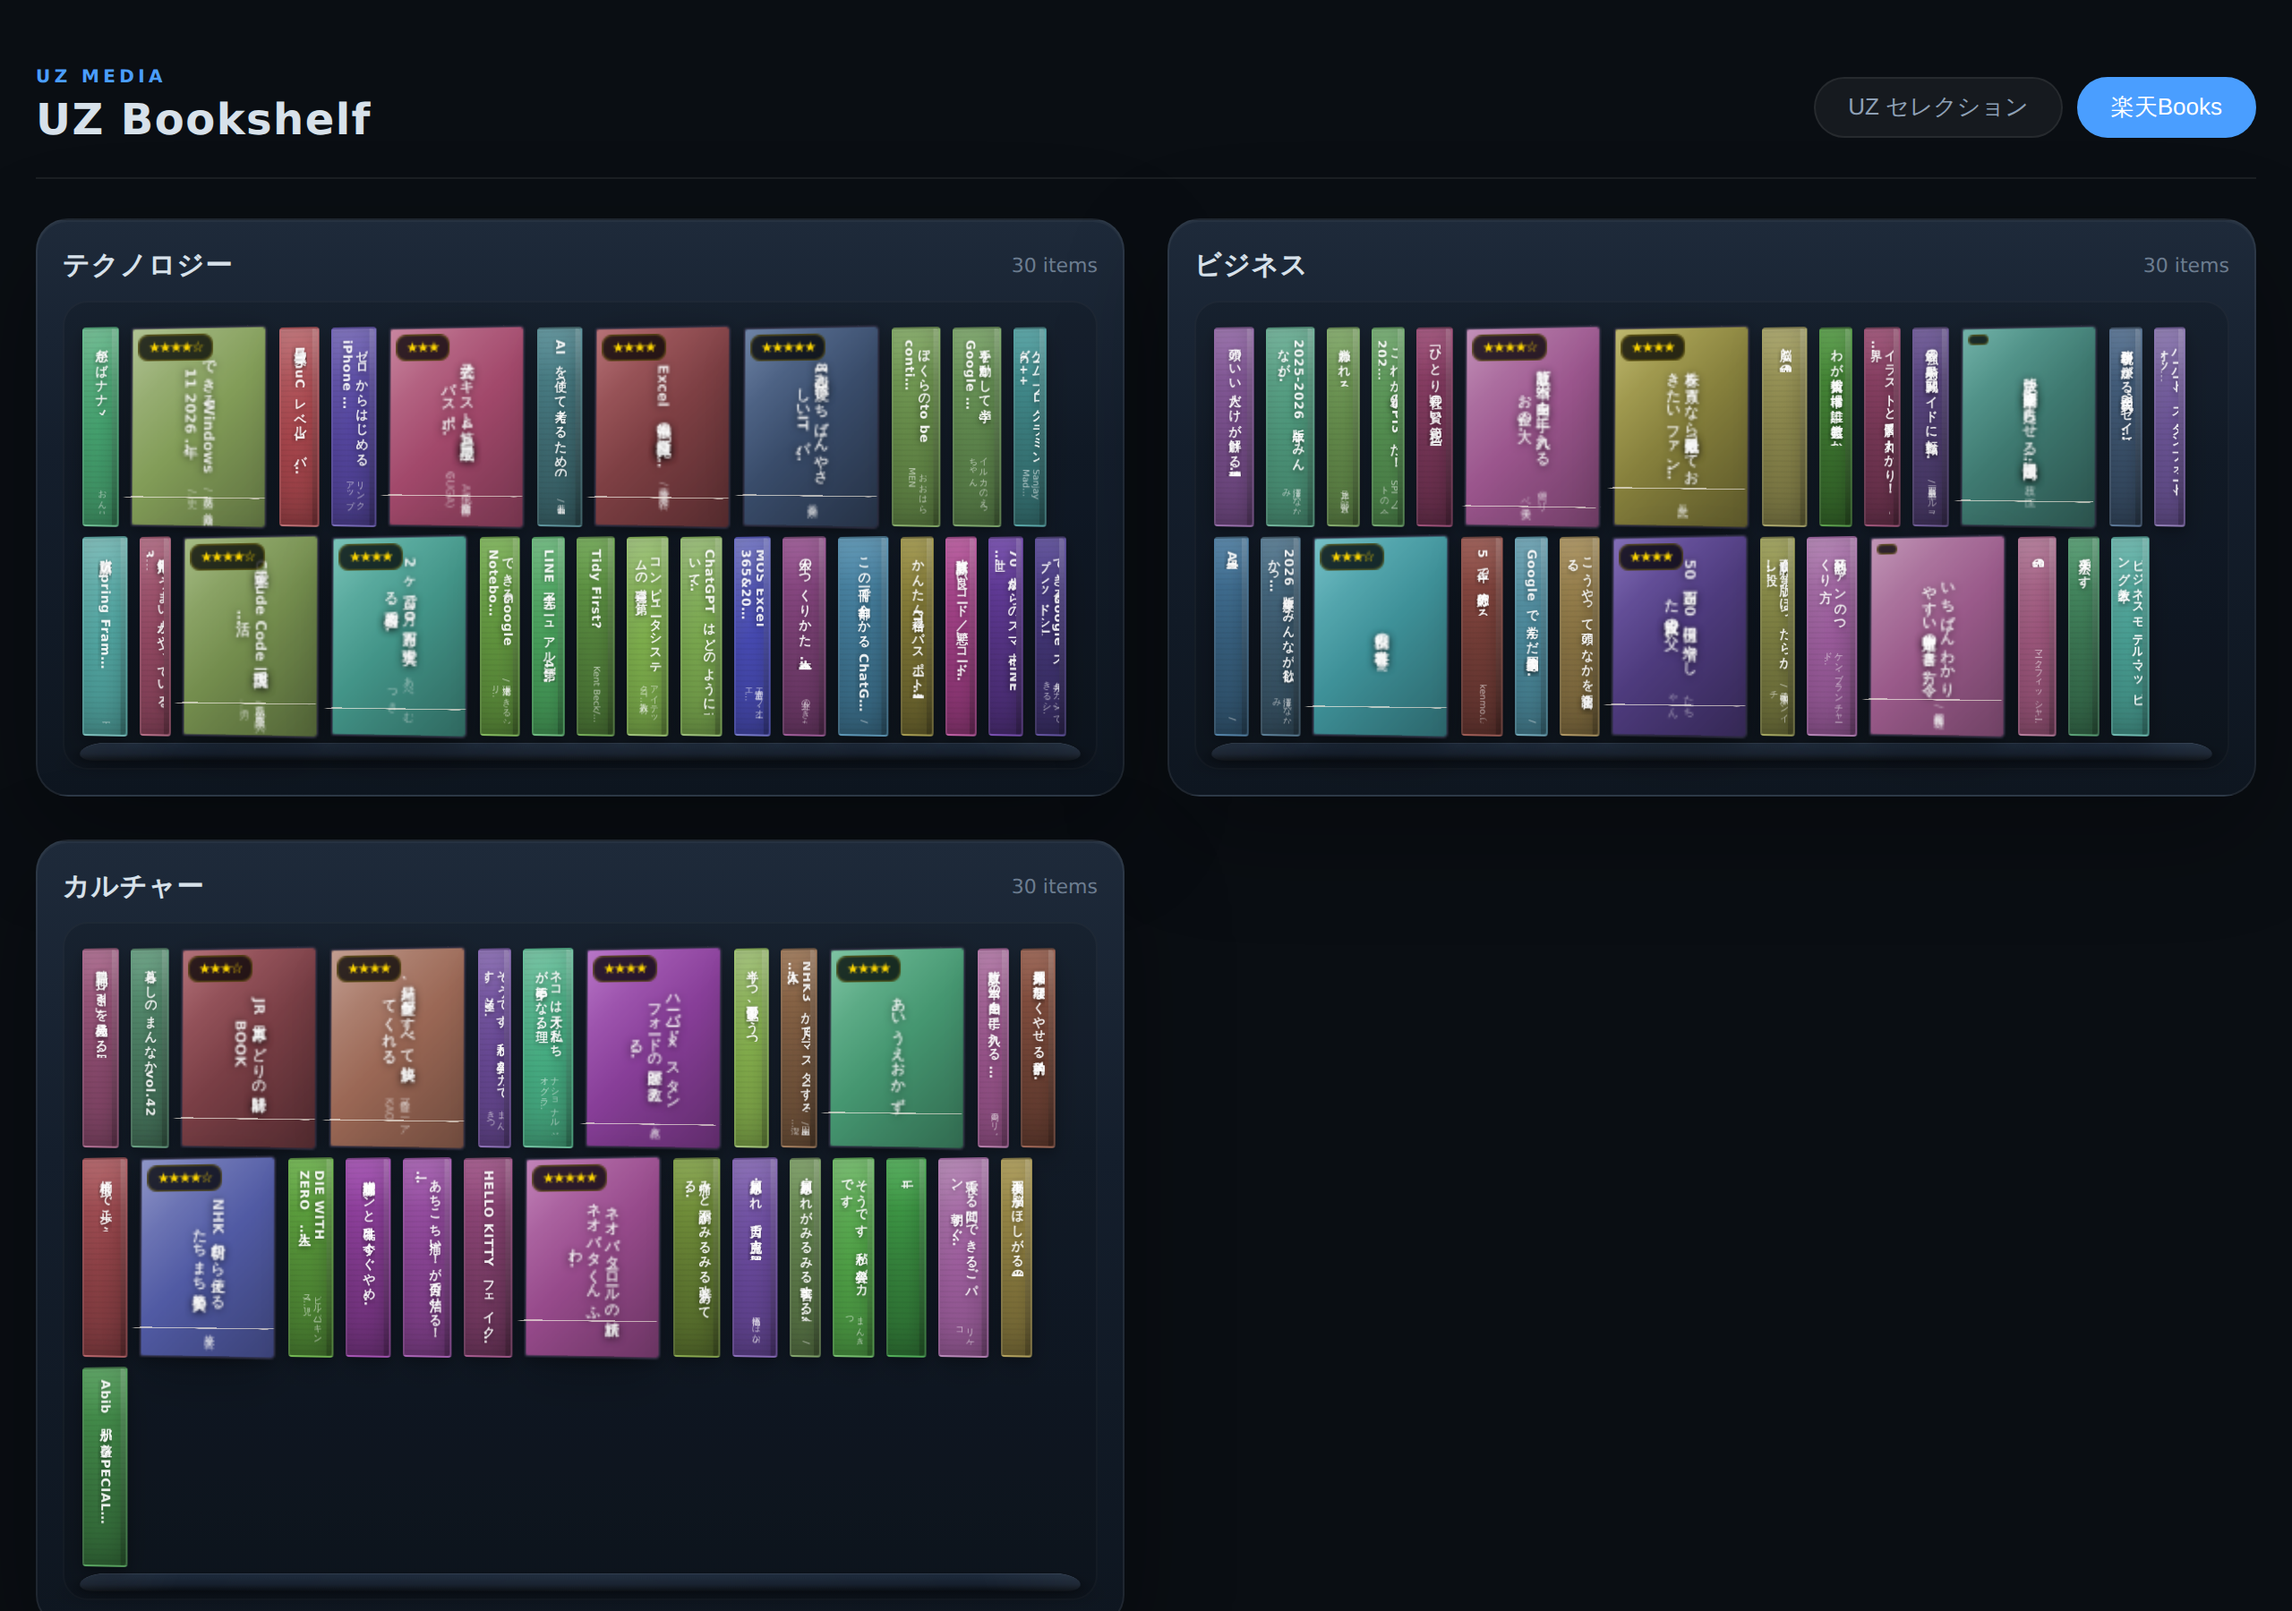
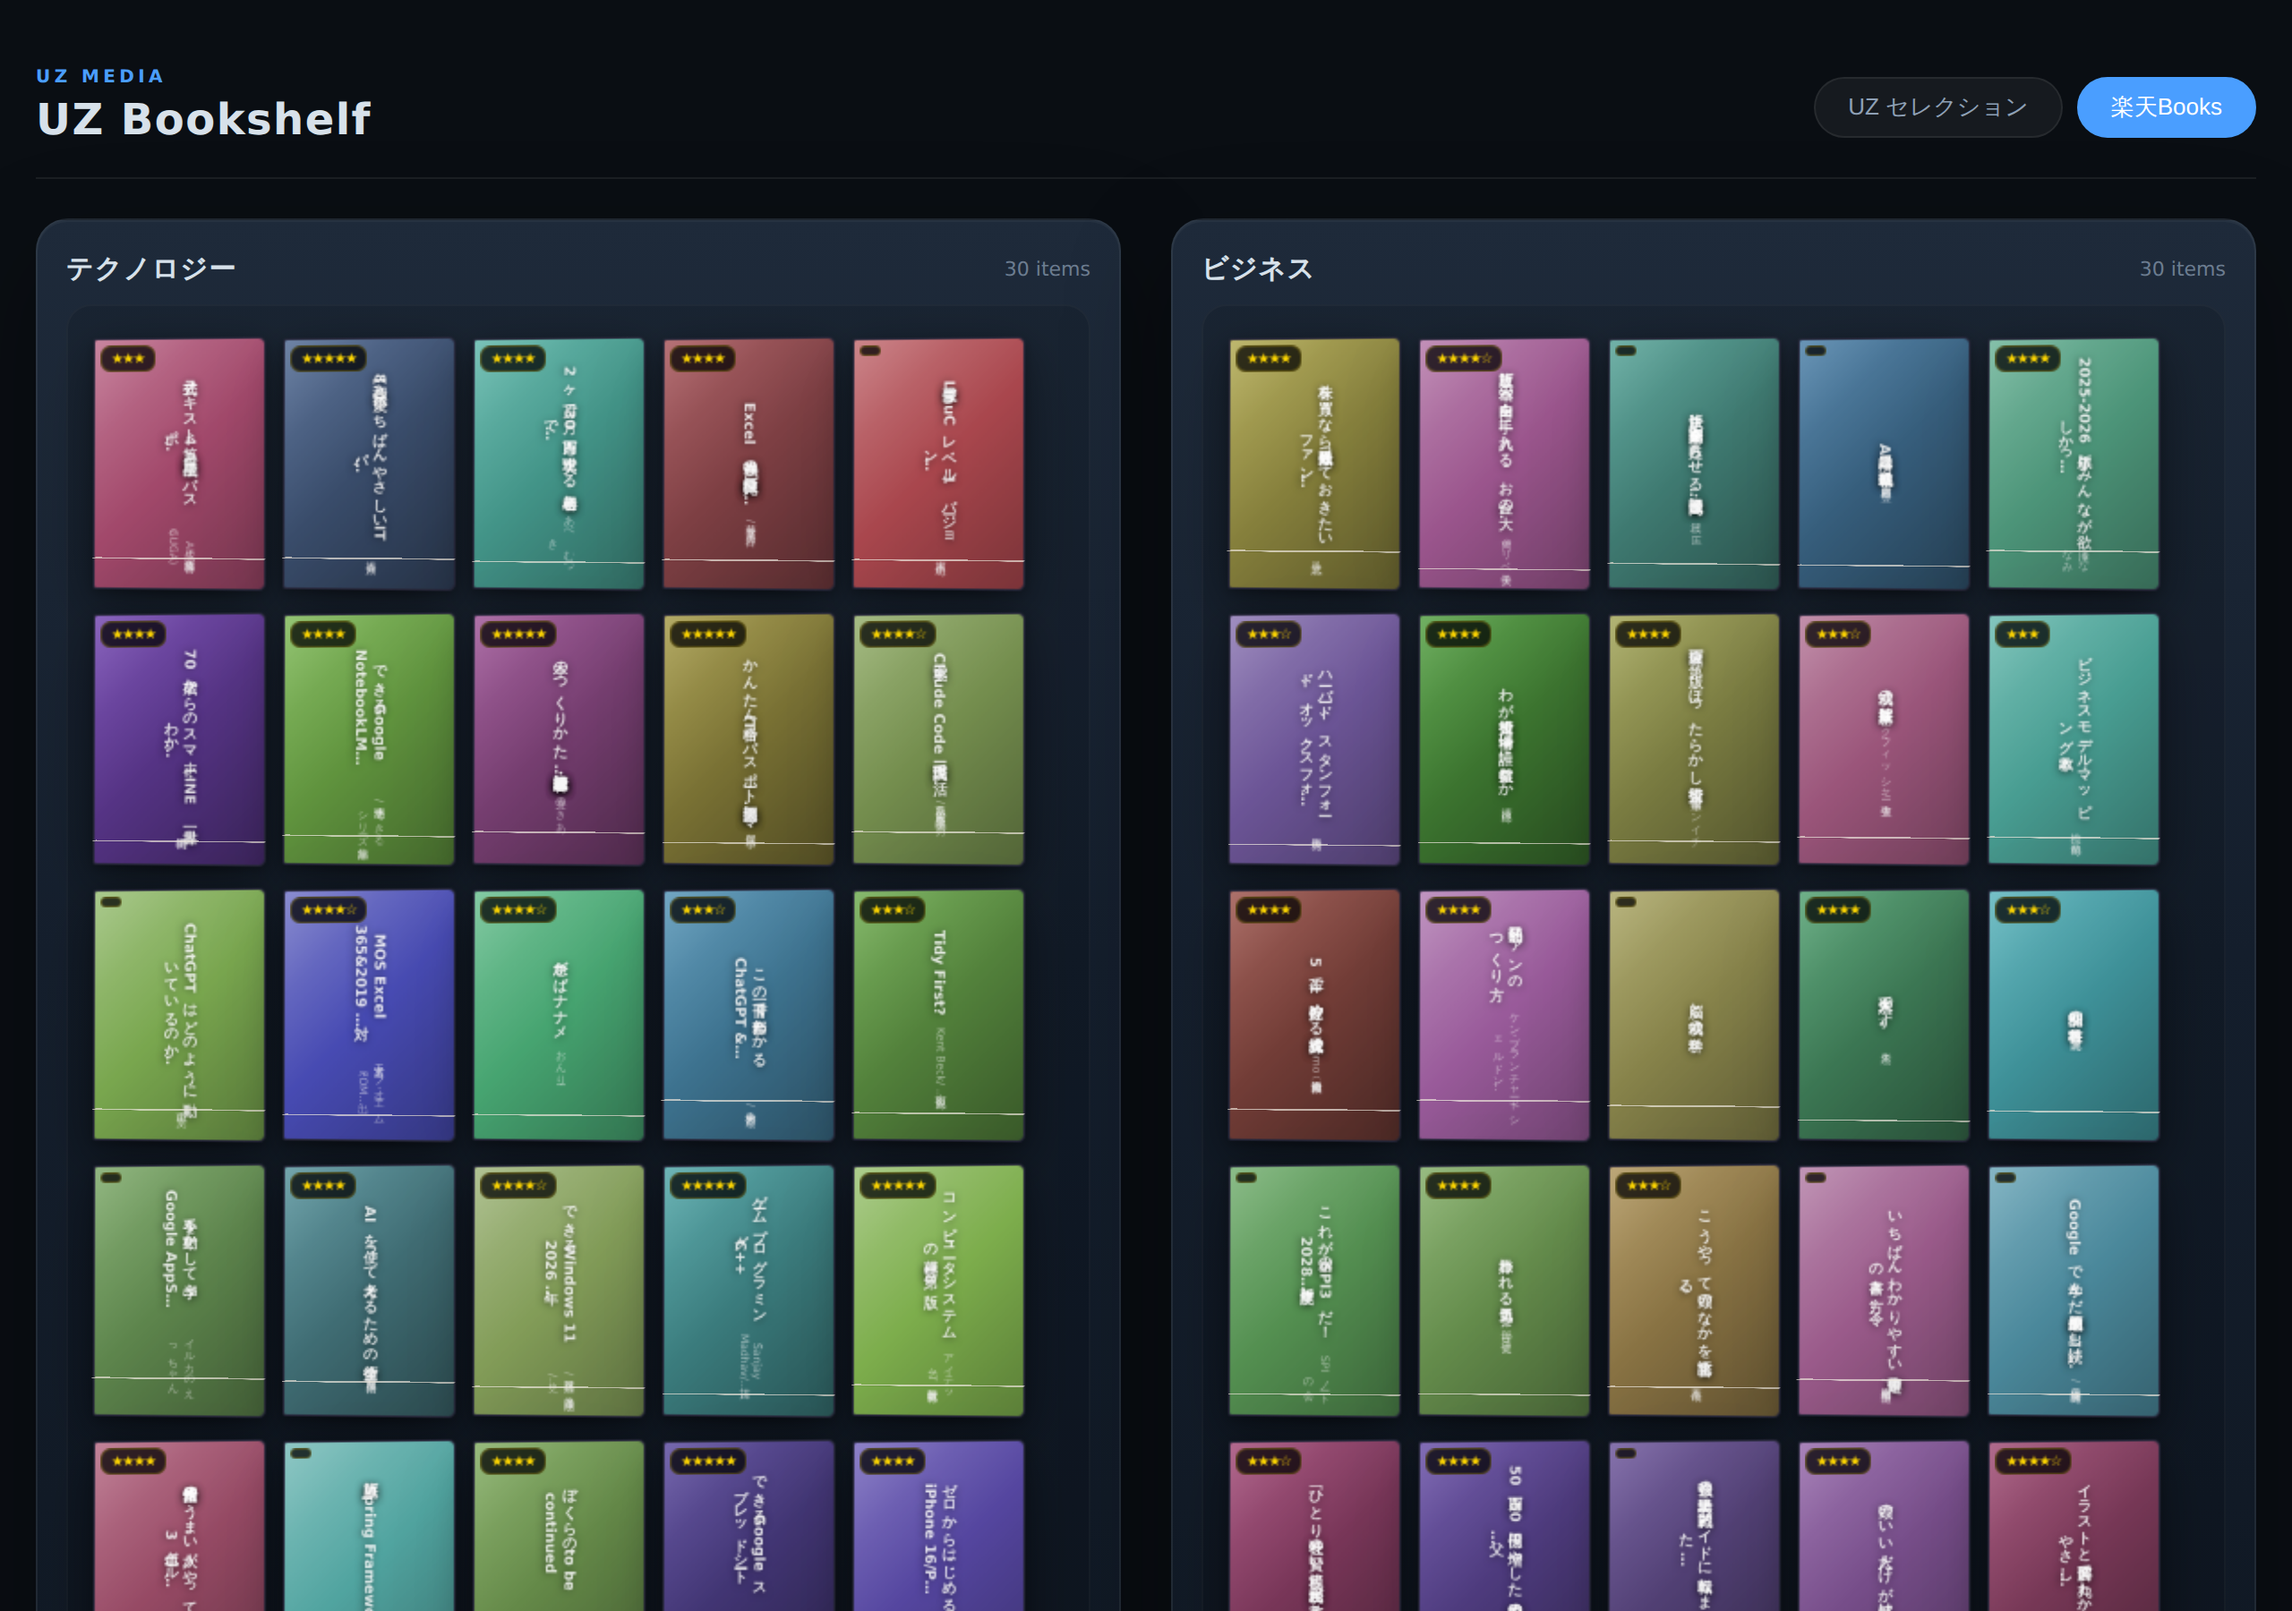
v3: Cover-focused layout — 表紙メインに並べ替え
- All items with coverUrl now display as BookFace (covers) instead of BookSpine
- Reduced 3D rotation from -16deg to -8deg for better cover visibility
- Enlarged book dimensions for prominent cover display
- Wider spacing between items (14px gap)
- Smoother hover transitions with animated shadows
- Removed format labels from covers to reduce clutter
- Updated screenshot selectors for cover-first DOM structure
- Updated screenshots

https://claude.ai/code/session_01E1Zkc5kcj6Rdq9LPgDUmgy

diff --git a/book/booksUI/UzBookshelf.css b/book/booksUI/UzBookshelf.css
@@ -26,7 +26,7 @@ body {
   font-family: "Noto Sans JP", system-ui, -apple-system, "Segoe UI", sans-serif;
 }
 
-.uz-wrap { max-width: 1280px; margin: 0 auto; padding: 28px 20px 56px; }
+.uz-wrap { max-width: 1400px; margin: 0 auto; padding: 28px 20px 56px; }
 
 /* ---- Header ---- */
 .uz-header {
@@ -47,15 +47,15 @@ body {
 .uz-tabBtn.active { background: var(--accent); color: #fff; border-color: var(--accent); }
 
 /* ---- Grid ---- */
-.uz-grid { display: grid; grid-template-columns: 1fr; gap: 24px; margin-top: 22px; }
+.uz-grid { display: grid; grid-template-columns: 1fr; gap: 28px; margin-top: 22px; }
 @media (min-width: 880px) { .uz-grid { grid-template-columns: 1fr 1fr; } }
-@media (min-width: 1200px) { .uz-grid--uz { grid-template-columns: 1fr 1fr 1fr; } }
+@media (min-width: 1200px) { .uz-grid--uz { grid-template-columns: 1fr 1fr; } }
 
 /* ---- Shelf ---- */
 .uz-shelf {
   background: var(--wood);
   border: 1px solid var(--line); border-radius: 18px;
-  padding: 16px 14px 14px; overflow: hidden;
+  padding: 18px 16px 16px; overflow: hidden;
   box-shadow: 0 20px 60px rgba(0,0,0,.30), inset 0 1px 0 rgba(255,255,255,.04);
 }
 .uz-shelf--film { border-color: rgba(255,107,74,.12); }
@@ -70,7 +70,7 @@ body {
 
 /* ---- Rack ---- */
 .uz-rack {
-  position: relative; padding: 14px 10px 18px;
+  position: relative; padding: 18px 14px 24px;
   border-radius: 14px; background: rgba(0,0,0,.12);
   border: 1px solid rgba(255,255,255,.03);
 }
@@ -91,8 +91,9 @@ body {
 }
 
 .uz-mixedRow {
-  display: flex; gap: 6px; align-items: flex-end;
-  flex-wrap: wrap; min-height: 90px;
+  display: flex; gap: 14px 10px; align-items: flex-end;
+  flex-wrap: wrap; min-height: 100px;
+  padding-bottom: 4px;
 }
 
 /* ============================================================
@@ -101,13 +102,13 @@ body {
 .uz-book {
   position: relative; text-decoration: none; color: inherit; flex-shrink: 0;
   transform-style: preserve-3d;
-  transform: perspective(800px) rotateY(-16deg) rotateX(1deg);
+  transform: perspective(900px) rotateY(-8deg) rotateX(1deg);
   transform-origin: left center;
-  transition: transform .22s cubic-bezier(.25,.46,.45,.94), filter .2s;
+  transition: transform .28s cubic-bezier(.25,.46,.45,.94), filter .2s, box-shadow .28s;
 }
 .uz-book:hover {
-  transform: perspective(800px) rotateY(-6deg) translateZ(30px) translateY(-3px);
-  filter: brightness(1.08);
+  transform: perspective(900px) rotateY(-2deg) translateZ(20px) translateY(-4px);
+  filter: brightness(1.06);
   z-index: 10;
 }
 
@@ -119,12 +120,13 @@ body {
 /* 表紙面 */
 .uz-book__front {
   position: absolute; inset: 0;
-  border-radius: 2px 3px 3px 2px;
+  border-radius: 2px 4px 4px 2px;
   overflow: hidden;
   box-shadow:
-    0 2px 8px rgba(0,0,0,.3),
-    0 10px 30px rgba(0,0,0,.25);
-  border: 1px solid rgba(255,255,255,.08);
+    0 2px 6px rgba(0,0,0,.25),
+    0 8px 24px rgba(0,0,0,.3),
+    0 16px 48px rgba(0,0,0,.15);
+  border: 1px solid rgba(255,255,255,.06);
   background: #1a1a2e;
 }
 
@@ -214,12 +216,18 @@ body {
 
 /* 影 */
 .uz-book__shadow {
-  position: absolute; left: 8px; right: -4px; bottom: -10px; height: 18px;
-  background: radial-gradient(closest-side, rgba(0,0,0,.35), transparent);
-  filter: blur(4px);
-  transform: perspective(400px) rotateX(60deg);
+  position: absolute; left: 4px; right: -2px; bottom: -8px; height: 14px;
+  background: radial-gradient(closest-side, rgba(0,0,0,.4), transparent);
+  filter: blur(5px);
+  transform: perspective(400px) rotateX(55deg);
   transform-origin: top;
   pointer-events: none;
+  transition: all .28s;
+}
+.uz-book:hover .uz-book__shadow {
+  bottom: -14px; height: 20px;
+  filter: blur(8px);
+  opacity: .7;
 }
 
 /* ディスク（正方形） */
@@ -232,12 +240,12 @@ body {
    ============================================================ */
 .uz-spine2 {
   position: relative; text-decoration: none; color: inherit; flex-shrink: 0;
-  transform: perspective(800px) rotateY(-16deg);
+  transform: perspective(900px) rotateY(-8deg);
   transform-origin: left center;
   transition: transform .2s cubic-bezier(.25,.46,.45,.94), filter .18s;
 }
 .uz-spine2:hover {
-  transform: perspective(800px) rotateY(-6deg) translateZ(10px) translateY(-2px);
+  transform: perspective(900px) rotateY(-2deg) translateZ(10px) translateY(-2px);
   filter: brightness(1.1);
   z-index: 10;
 }
@@ -486,6 +494,6 @@ body {
   .uz-header { flex-direction: column; align-items: flex-start; }
   .uz-modal__inner { padding: 20px; }
   .uz-modal__cover { width: 150px; }
-  .uz-book { transform: perspective(600px) rotateY(-12deg); }
-  .uz-spine2 { transform: perspective(600px) rotateY(-12deg); }
+  .uz-book { transform: perspective(700px) rotateY(-6deg); }
+  .uz-spine2 { transform: perspective(700px) rotateY(-6deg); }
 }

diff --git a/book/booksUI/UzBookshelf.jsx b/book/booksUI/UzBookshelf.jsx
@@ -67,13 +67,13 @@ function renderStars(rating) {
 
 // ---- 判型サイズマッピング ----
 const FORMAT_SIZES = {
-  bunko:     { w: 74, h: 105, label: '文庫' },
-  comic:     { w: 90, h: 128, label: 'コミック' },
-  shinsho:   { w: 74, h: 122, label: '新書' },
-  tankobon:  { w: 90, h: 128, label: '単行本' },
-  hardcover: { w: 105, h: 148, label: 'ハードカバー' },
-  disc:      { w: 100, h: 100, label: 'ディスク' },
-  standard:  { w: 90, h: 130, label: '' },
+  bunko:     { w: 82, h: 118, label: '文庫' },
+  comic:     { w: 96, h: 138, label: 'コミック' },
+  shinsho:   { w: 82, h: 132, label: '新書' },
+  tankobon:  { w: 96, h: 138, label: '単行本' },
+  hardcover: { w: 110, h: 158, label: 'ハードカバー' },
+  disc:      { w: 110, h: 110, label: 'ディスク' },
+  standard:  { w: 96, h: 140, label: '' },
 };
 
 function detectFormat(name) {
@@ -90,8 +90,7 @@ function detectFormat(name) {
 function getBookDimensions(item) {
   const fmt = item.format || detectFormat(item.fullTitle || item.title);
   const base = FORMAT_SIZES[fmt] || FORMAT_SIZES.standard;
-  // Scale to px (roughly 0.7 px/mm for display)
-  const scale = 0.85;
+  const scale = 1.0;
   return {
     width: Math.round(base.w * scale),
     height: Math.round(base.h * scale),
@@ -223,25 +222,23 @@ function UzBookshelf() {
   const rakutenShelves = React.useMemo(() => {
     if (!rakutenData) return [];
     return rakutenData.map(s => {
-      const featured = s.books.slice(0, 3).map(b => ({ ...b, type: 'featured' }));
-      let rest = s.books.slice(3, 27).map(b => ({ ...b, type: 'spine' }));
-      if (rest.length > 3) {
-        const sr = shuffleArray(rest);
-        rest = [...sr.slice(0, 3).map(b => ({ ...b, type: 'featured' })), ...sr.slice(3)];
-      }
-      return { ...s, mixedBooks: shuffleArray([...featured, ...rest]) };
+      const books = s.books.slice(0, 30).map(b => ({
+        ...b,
+        type: b.coverUrl ? 'featured' : 'spine',
+      }));
+      return { ...s, mixedBooks: books };
     });
   }, [rakutenData]);
 
   const uzShelves = React.useMemo(() => {
     if (!uzData) return [];
     return uzData.shelves.filter(s => s.items.length > 0).map(s => {
-      const items = s.items.map((item, i) => ({
+      const items = s.items.map((item) => ({
         ...item,
-        type: (item.coverUrl && (i < 6 || Math.random() > 0.5)) ? 'featured' : 'spine',
+        type: item.coverUrl ? 'featured' : 'spine',
         source: 'uz', format: item.format || detectFormat(item.fullTitle || item.title),
       }));
-      return { ...s, mixedItems: shuffleArray(items) };
+      return { ...s, mixedItems: items };
     });
   }, [uzData]);
 
@@ -307,8 +304,6 @@ function UzBookshelf() {
           {item.reviewAverage && item.reviewAverage !== '0' && (
             <div className="uz-book__badge">{renderStars(item.reviewAverage)}</div>
           )}
-          {/* 判型ラベル */}
-          {dim.label && <div className="uz-book__format">{dim.label}</div>}
         </div>
         {/* 影 */}
         <div className="uz-book__shadow" />

diff --git a/book/booksUI/screenshot.py b/book/booksUI/screenshot.py
@@ -55,9 +55,9 @@ def take_screenshots():
 
         # ===== 3. Tooltip =====
         print("3. ツールチップ表示")
-        spines = page.query_selector_all(".uz-spine2")
-        if len(spines) > 5:
-            spines[5].hover()
+        books = page.query_selector_all(".uz-book")
+        if len(books) > 3:
+            books[3].hover()
             page.wait_for_timeout(800)
             page.screenshot(path=f"{OUT_DIR}/03_tooltip.png", full_page=False)
         page.mouse.move(10, 10)
@@ -65,7 +65,7 @@ def take_screenshots():
 
         # ===== 4. Modal (UZ selection) =====
         print("4. 書籍詳細モーダル")
-        js_click(".uz-spine2", 2)
+        js_click(".uz-book", 2)
         page.wait_for_timeout(800)
         page.screenshot(path=f"{OUT_DIR}/04_modal_uz.png", full_page=False)
         close_modal()
@@ -134,7 +134,7 @@ def take_screenshots():
         rakuten_count = page.evaluate('document.querySelectorAll(".uz-book, .uz-spine2").length')
         print(f"   Rakuten items found: {rakuten_count}")
         if rakuten_count > 0:
-            js_click(".uz-spine2", 0)
+            js_click(".uz-book", 0)
             page.wait_for_timeout(800)
             modal = page.query_selector(".uz-modal")
             if modal:
